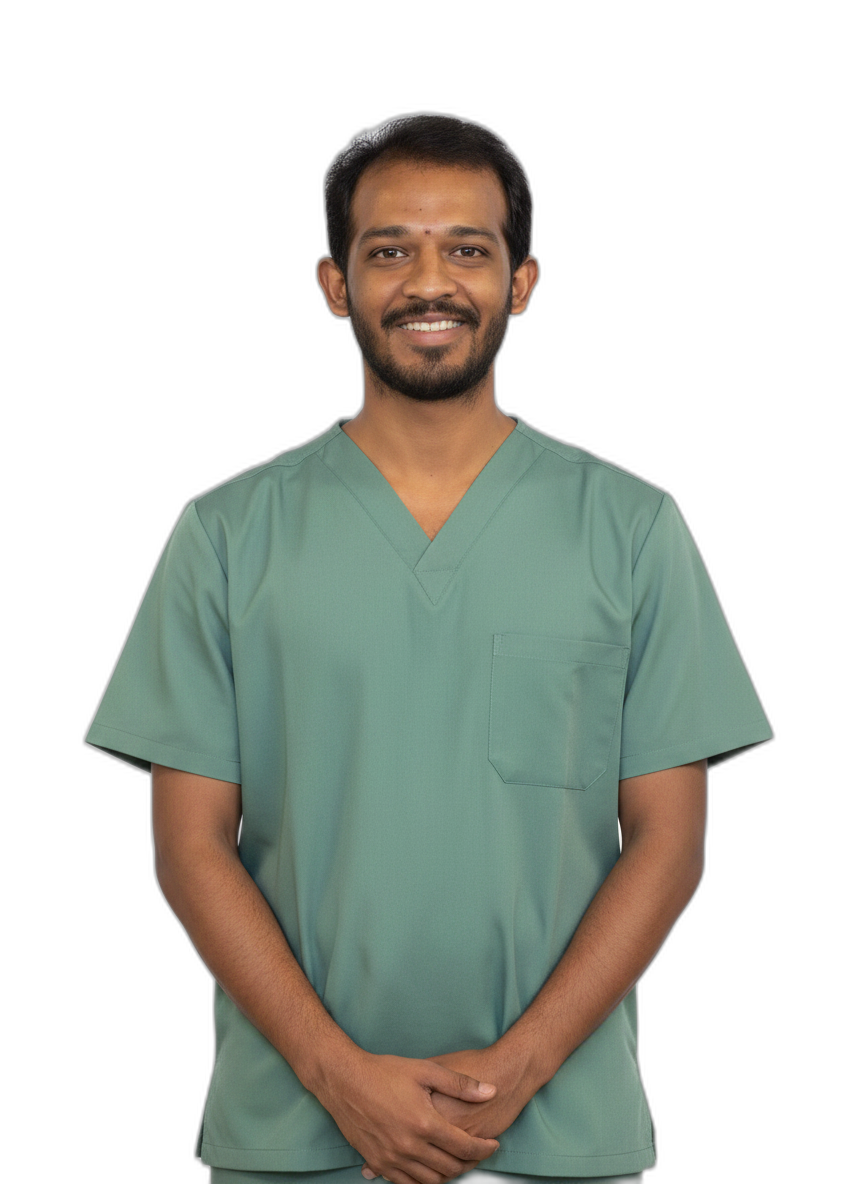
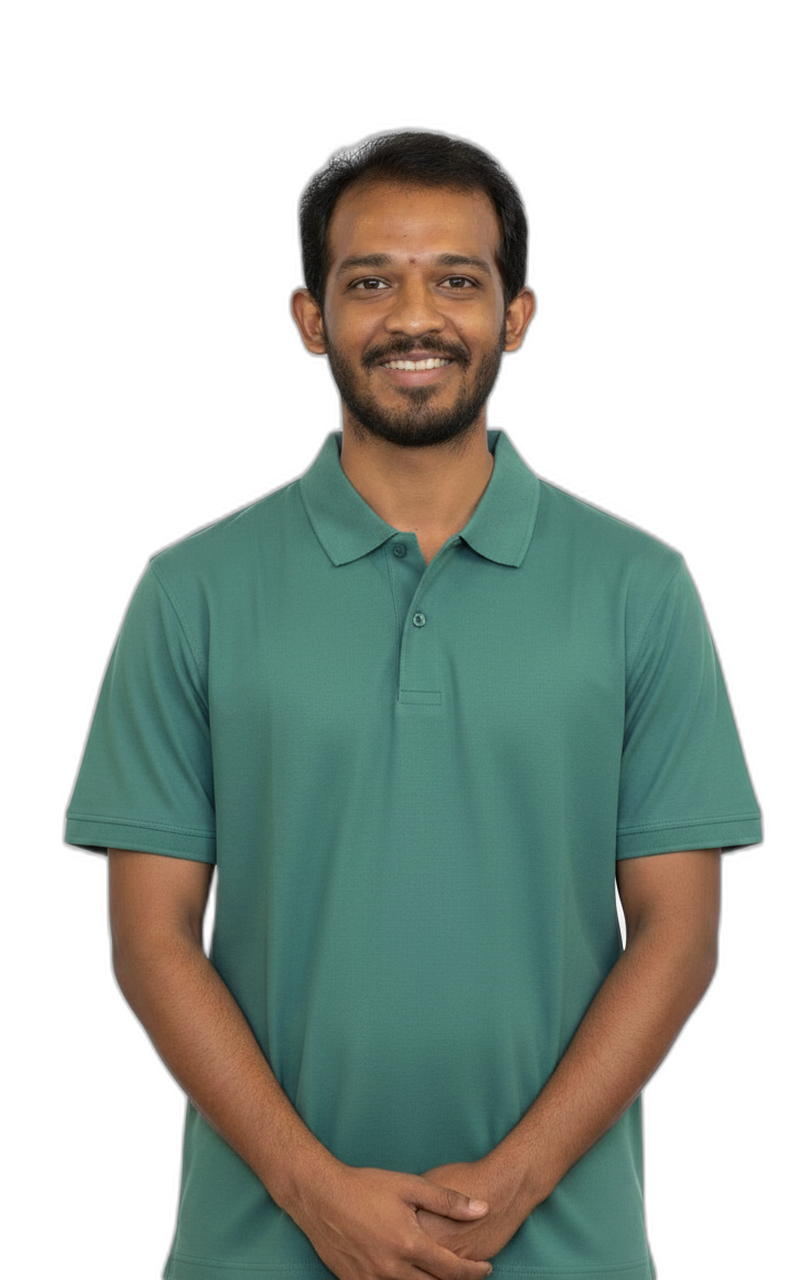
ka-mobile: About Mission/Vision + Why us sections, provider specialization chips
- About page: 'What we stand for' (Mission/Vision creed cards) and 'Why people choose us' principle cards
- Provider cards: consistent 'Specializes in' chip block, lane-coloured
- Provider data: Vighnesh G/R, Sneha, Ashfaqullah, Seema, Taseena specializations + credentials/experience

diff --git a/index.html b/index.html
@@ -348,7 +348,7 @@ main{padding-bottom:96px}
 /* providers: one horizontal scroll row, snap + hidden scrollbar, full-bleed so
    the next card peeks past the screen edge and invites the swipe */
 .team{display:flex;gap:14px;overflow-x:auto;scroll-snap-type:x mandatory;
-  align-items:stretch;margin:24px -22px 0;padding:4px 22px 12px;scroll-padding-left:22px;
+  align-items:flex-start;margin:24px -22px 0;padding:4px 22px 12px;scroll-padding-left:22px;
   -webkit-overflow-scrolling:touch;scrollbar-width:none}
 .team::-webkit-scrollbar{display:none}
 .team>.pcard{flex:0 0 62%;scroll-snap-align:start}
@@ -362,6 +362,7 @@ main{padding-bottom:96px}
 .pcard.g .pphoto{background:linear-gradient(157deg,#e7f5ef,#d2ebdf)}
 .pcard.b .pphoto{background:linear-gradient(157deg,#eaeffb,#d8e3fb)}
 .pcard.o .pphoto{background:linear-gradient(157deg,#fef0e6,#fbdfce)}
+.pcard.p .pphoto{background:linear-gradient(157deg,#f1eafb,#e2d5f6)}
 .pbody{padding:13px 14px 16px}
 .pname{font-family:var(--fd);font-weight:480;font-size:var(--fs-h4);line-height:1.12;letter-spacing:-.01em;color:var(--ink)}
 /* role label: white caption over the bottom of the photo, lane-coloured dot, no pill */
@@ -373,7 +374,17 @@ main{padding-bottom:96px}
 .pcard.g .ptag::before{background:#5fd0aa}
 .pcard.b .ptag::before{background:#86a6f2}
 .pcard.o .ptag::before{background:#f7a079}
+.pcard.p .ptag::before{background:#b79be8}
 .pmeta{margin-top:10px;font-size:var(--fs-cap);color:var(--muted);line-height:1.45}
+.pcard.n{--ln:#13265a}.pcard.g{--ln:#1f8c6a}.pcard.b{--ln:#213f99}.pcard.o{--ln:#cf5a34}.pcard.p{--ln:#7b54c4}
+/* provider card: "Specializes in" block — short line, or lane-tinted chips for a list of areas */
+.pspec{margin-top:13px;padding-top:13px;border-top:1px solid var(--line)}
+.pspec-lbl{display:inline-flex;align-items:center;gap:6px;font-size:9.5px;font-weight:700;letter-spacing:.14em;
+  text-transform:uppercase;color:var(--ln);margin-bottom:9px}
+.pspec-lbl::before{content:"";width:6px;height:6px;border-radius:50%;background:var(--ln);flex:none}
+.pspec-chips{display:flex;flex-wrap:wrap;gap:6px}
+.pchip{font-size:11px;font-weight:600;line-height:1.18;padding:5px 9px;border-radius:9px;
+  background:color-mix(in srgb,var(--ln) 9%,#fff);color:var(--ln);border:1px solid color-mix(in srgb,var(--ln) 22%,transparent)}
 /* about: head-of-type provider detail cards (name · type · education · experience · membership) */
 .prov-detail{padding:18px;position:relative;overflow:hidden;--ring:#9db0ee;--accent:#3f5da0;--tint:#eef1fb}
 .prov-detail.g{--ring:#5fd0aa;--accent:#1f8c6a;--tint:#e7f6f0}
@@ -1013,6 +1024,7 @@ main{padding-bottom:96px}
 .jw-banner{position:relative;overflow:hidden;color:#fff;padding:88px 22px 30px;isolation:isolate}
 .jw-banner .bgslide{position:absolute;inset:0;z-index:-2}
 .jw-banner:after{content:'';position:absolute;inset:0;z-index:-1;background:linear-gradient(180deg,transparent 40%,rgba(12,18,42,.35))}
+.jw-banner .eyebrow{font-size:var(--fs-lbl);letter-spacing:.22em;text-transform:uppercase;color:rgba(255,255,255,.78);margin-bottom:12px}
 .jw-banner h1{font-family:var(--fd);font-weight:430;font-size:var(--fs-h1);line-height:1.05;letter-spacing:-.012em;text-shadow:0 1px 24px rgba(0,0,0,.28)}
 .jw-banner h1 .it{font-style:italic;color:#f7a172}
 .jw-banner p{margin-top:11px;font-size:var(--fs-sm);line-height:1.5;color:rgba(255,255,255,.86);max-width:30ch}
@@ -1612,6 +1624,37 @@ main{padding-bottom:96px}
 @keyframes bmPulse{0%,100%{opacity:.10;transform:scale(.85)}50%{opacity:.24;transform:scale(1.3)}}
 .bmap-cap{position:absolute;left:16px;bottom:16px;display:inline-flex;align-items:center;gap:6px;padding:7px 13px;border-radius:999px;background:rgba(255,255,255,.92);-webkit-backdrop-filter:blur(6px);backdrop-filter:blur(6px);font-size:var(--fs-cap);color:var(--ink);box-shadow:0 6px 18px -10px rgba(19,38,90,.4)}
 .bmap-cap svg{width:13px;height:13px;color:var(--green)}
+/* About — "What we stand for": Mission / Vision creed cards */
+.creed{display:flex;flex-direction:column;gap:16px;margin-top:24px}
+.creed-card{position:relative;overflow:hidden;border-radius:var(--r-lg);padding:26px 24px 28px;
+  background:linear-gradient(155deg,color-mix(in srgb,var(--ln) 9%,#fff),color-mix(in srgb,var(--ln) 2.5%,#fff));
+  border:1px solid color-mix(in srgb,var(--ln) 20%,var(--line));
+  box-shadow:0 20px 44px -30px color-mix(in srgb,var(--ln) 70%,transparent);
+  animation:kjUp .6s var(--ease) both;animation-delay:calc(var(--i)*120ms)}
+.creed-card::before{content:'';position:absolute;left:0;top:24px;bottom:24px;width:3px;border-radius:0 3px 3px 0;background:var(--ln)}
+.creed-glyph{position:absolute;right:-26px;top:-30px;width:132px;height:132px;color:var(--ln);opacity:.08;pointer-events:none}
+.creed-lbl{position:relative;display:inline-flex;align-items:center;gap:9px;font-size:var(--fs-lbl);
+  letter-spacing:.2em;text-transform:uppercase;font-weight:600;color:var(--ln);margin-bottom:15px}
+.creed-mark{width:15px;height:15px;flex:none}
+.creed-tx{position:relative;font-family:var(--fd);font-weight:400;font-size:clamp(16.5px,4.2vw,18px);
+  line-height:1.5;letter-spacing:-.005em;color:var(--ink)}
+.creed-tx .it{font-style:italic;color:var(--ln)}
+.creed-card.g{--ln:#1f8c6a}.creed-card.b{--ln:#213f99}
+/* About — "Why people choose us": three principle cards */
+.why{display:flex;flex-direction:column;gap:14px;margin-top:24px}
+.why-card{position:relative;overflow:hidden;display:grid;grid-template-columns:46px 1fr;gap:16px;align-items:start;
+  padding:20px 20px 22px;border-radius:var(--r);background:#fff;border:1px solid var(--line);
+  box-shadow:0 14px 30px -24px rgba(20,32,80,.5);
+  animation:kjUp .55s var(--ease) both;animation-delay:calc(var(--i)*90ms)}
+.why-card::before{content:'';position:absolute;left:0;top:0;bottom:0;width:4px;background:var(--ln)}
+.why-card::after{content:attr(data-no);position:absolute;right:-14px;bottom:-30px;font-family:var(--fd);
+  font-weight:500;font-size:120px;line-height:1;color:var(--ln);opacity:.06;pointer-events:none}
+.why-no{font-family:var(--fd);font-weight:480;font-size:24px;line-height:1;color:var(--ln);
+  width:46px;height:46px;border-radius:14px;display:grid;place-items:center;
+  background:color-mix(in srgb,var(--ln) 12%,#fff)}
+.why-tx{position:relative;font-size:calc(var(--fs-body) + .5px);line-height:1.54;color:var(--ink2);padding-top:9px;font-weight:450}
+.why-tx b{color:var(--ink);font-weight:600}
+.why-card.g{--ln:#1f8c6a}.why-card.b{--ln:#213f99}.why-card.o{--ln:#cf5a34}
 </style>
 </head>
 <body>
@@ -1845,11 +1888,12 @@ var TESTIMONIALS=[
  team:['Physiotherapy','Strength','Nutrition','Emotional wellbeing','Doctor oversight']}
 ];
 var PROVIDERS=[
- {name:'Taseena Banu',role:'Medical oversight',lane:'n',photo:'taseena-real.png?v=1'},
- {name:'Vighnesh R',role:'Physiotherapist',edu:'BPT, MBA Healthcare Management',exp:'7+ years',assoc:'MIAP',lane:'g',photo:'vighnesh-cut.png?v=1'},
- {name:'Vighnesh G',role:'Senior physical trainer',lane:'b',photo:'trainer2-cut.png?v=2'},
- {name:'Sneha Reddy',role:'Nutritionist',lane:'o',photo:'provider4-cut.png?v=3'},
- {name:'Ashfaqullah',role:'Senior physiotherapist',lane:'g',photo:'ashfaqullah-dr.png?v=1'}
+ {name:'Taseena Banu',role:'Medical oversight',edu:'MBBS, MD (Medicine)',exp:'5 years',specList:['Internal Medicine','Geriatric Care','Chronic Disease Management','Preventive Health'],lane:'n',photo:'taseena-real.png?v=1'},
+ {name:'Vighnesh R',role:'Physiotherapist',edu:'BPT, MBA Healthcare Management',exp:'7+ years',assoc:'MIAP',specList:['Post-Operative Rehabilitation','Neurological Rehabilitation',"Parkinson's Rehabilitation",'Paediatric Rehabilitation','Geriatric Rehabilitation'],lane:'g',photo:'vighnesh-cut.png?v=4'},
+ {name:'Vighnesh G',role:'Senior fitness trainer',exp:'9 years',specList:['Personal Training','Strength & Conditioning','Sports Nutrition','Special Population Training','Senior Training'],lane:'b',photo:'trainer2-cut.png?v=2'},
+ {name:'Sneha Reddy',role:'Nutritionist',edu:'BSc (Nutrition)',exp:'5 years',specList:['Clinical & Therapeutic Nutrition','Diabetes & Metabolic Nutrition','Weight Management','Taste-based Meal Planning','Macro & Micro Balancing'],lane:'o',photo:'provider4-cut.png?v=3'},
+ {name:'Dr. K. Md. Ashfaqullah',role:'Senior physiotherapist / Rehab specialist',exp:'14 years',specList:['Orthopaedic Rehabilitation','Neurological Rehabilitation','Geriatric Fitness & Rehabilitation','Pre- & Post-Operative Rehabilitation'],lane:'g',photo:'ashfaqullah-dr.png?v=1'},
+ {name:'Seema',role:'Emotional wellbeing',edu:'MSc Psychology',exp:'8 years',specList:['Geriatric Mental Health','Anxiety & Depression Support','Cognitive Wellness','Caregiver Counselling'],lane:'p',photo:'seema-dr.png?v=2'}
 ];
 var ONBOARDING=[{t:'[PLACEHOLDER] Tell us what is going on',d:'[PLACEHOLDER] A short call or quiz to understand your situation, for you or a parent.'},{t:'[PLACEHOLDER] Home assessment',d:'[PLACEHOLDER] A provider visits and assesses in person.'},{t:'[PLACEHOLDER] You get a plan',d:'[PLACEHOLDER] A doctor-reviewed plan and a report for you and your family.'},{t:'[PLACEHOLDER] Ongoing sessions',d:'[PLACEHOLDER] Regular visits with progress you can see.'}];
 var JOURNEY=[
@@ -2053,7 +2097,10 @@ function pillars(){return '<div class="pillars">'+PILLARS.map(function(p){return
 var PS_ICONS=['<path d="M9.5 4h5v5h5v5h-5v5h-5v-5h-5V9h5z"></path>','<path d="M6.5 7v10M17.5 7v10M4 9.5v5M20 9.5v5M6.5 12h11"></path>','<path d="M5 19c-1-7 4-13 14-14 1 9-5 14-11 14"></path><path d="M6 18 13 11"></path>','<path d="M12 20c-4-2.4-7-5.4-7-9a3.6 3.6 0 0 1 7-1.4A3.6 3.6 0 0 1 19 11c0 3.6-3 6.6-7 9z"></path>','<path d="M6 3v4a4 4 0 0 0 8 0V3"></path><path d="M10 15a5 5 0 0 0 9 0v-3"></path><circle cx="19" cy="9" r="2"></circle>'];
 function pillarsStack(){return '<div class="pstack">'+PILLARS.map(function(p,i){return '<div class="pscard" data-go="/services/'+p.slug+'"><div class="ps-head"><span class="ps-ico c'+(i+1)+'"><svg width="24" height="24" viewBox="0 0 24 24" fill="none" stroke="currentColor" stroke-width="1.7" stroke-linecap="round" stroke-linejoin="round">'+PS_ICONS[i]+'</svg></span><div class="ps-body"><div class="ps-name">'+p.name+'</div><p class="ps-desc">'+p.blurb+'</p></div><button class="ps-chevbtn" data-ps="'+i+'" aria-label="Reopen '+p.name+'"><span class="ps-chev"></span></button></div><div class="ps-visual">'+(p.photo?'<img src="'+p.photo+'" alt="'+p.name+'" loading="lazy">':'<span>Visual</span>')+'</div></div>'}).join('')+'</div>'}
 // compact, horizontally-scrolling team carousel (the 5 heads of care); shared by Home and About
-function teamScroll(){return '<div class="team">'+PROVIDERS.map(function(p){var meta=[p.edu,p.exp].filter(Boolean).join(' &middot; ');return '<div class="pcard '+(p.lane||'n')+'"><div class="pphoto"><img src="'+p.photo+'" alt="'+p.role+'" loading="lazy"><span class="ptag">'+p.role+'</span></div><div class="pbody"><div class="pname">'+p.name+'</div>'+(meta?'<div class="pmeta">'+meta+'</div>':'')+'</div></div>'}).join('')+'</div>'}
+function teamScroll(){return '<div class="team">'+PROVIDERS.map(function(p){
+ var meta=[p.edu,p.exp].filter(Boolean).join(' &middot; ');
+ var spec=p.specList?'<div class="pspec"><span class="pspec-lbl">Specializes in</span><div class="pspec-chips">'+p.specList.map(function(s){return '<span class="pchip">'+s+'</span>'}).join('')+'</div></div>':'';
+ return '<div class="pcard '+(p.lane||'n')+'"><div class="pphoto"><img src="'+p.photo+'" alt="'+p.role+'" loading="lazy"><span class="ptag">'+p.role+'</span></div><div class="pbody"><div class="pname">'+p.name+'</div>'+(meta?'<div class="pmeta">'+meta+'</div>':'')+spec+'</div></div>'}).join('')+'</div>'}
 function metricsRow3(){
  var R=52,C=2*Math.PI*R;
  var rings=[{lane:'b',pct:95,num:'<span class="m-num" data-count="95">0</span>',u:'%',l:'Customer satisfaction'},
@@ -2124,10 +2171,14 @@ function heroTall(){
     '<a class="hlink" data-go="/how-we-work">See how we work</a>'+
   '</div>'+
  '</section>'}
+// small page label that mirrors the nav, so the hero title can stay evocative
+// while you always know which destination you landed on
+function pageLabel(){return {conditions:'Conditions','how-we-work':'How we work',services:'Services',stories:'Stories',about:'About','case-studies':'Case studies',pricing:'Pricing'}[path().split('/').filter(Boolean)[0]]||''}
 function heroBand(g,eyebrow,h1,sub,cta){
+ var eb=eyebrow||pageLabel();
  return '<section class="hero" style="padding-bottom:38px">'+
   '<div class="bgwrap"><div class="bgslide '+g+'"></div></div><div class="grain"></div><div class="scrim"></div>'+
-  (eyebrow?'<p class="eyebrow">'+eyebrow+'</p>':'')+'<h1>'+h1+'</h1>'+(sub?'<p class="sub">'+sub+'</p>':'')+(cta?'<div class="hcta">'+cta+'</div>':'')+
+  (eb?'<p class="eyebrow">'+eb+'</p>':'')+'<h1>'+h1+'</h1>'+(sub?'<p class="sub">'+sub+'</p>':'')+(cta?'<div class="hcta">'+cta+'</div>':'')+
  '</section>'}
 function condCard(c,lane){return '<div class="card">'+slot(c.name+' &middot; photo',lane)+'<span class="tag '+lane+'" style="margin-top:14px">'+c.name+'</span><div class="cardttl">'+c.symptom+'</div><p class="p muted" style="margin-top:4px;font-size:var(--fs-sm)">'+c.intro+'</p><div class="cardcta">'+arguments[2]+'</div></div>'}
 function condDirRow(d){
@@ -2458,7 +2509,7 @@ function jwCalAnim(){
  return '<div class="cal-panel"><div class="jw-calx" id="calAnim"><div class="cal-ttl">What we do</div><div class="jw-cal">'+head+weeks+'</div>'+leg+'</div></div>'}
 function vHow(){
  return '<div class="jw">'+
-   '<section class="jw-banner"><div class="bgslide g-blue"></div><h1>Journey <span class="it">with us</span></h1><p>We provide the whole plan, run it, and own every outcome, for you and your family.</p></section>'+
+   '<section class="jw-banner"><div class="bgslide g-blue"></div><p class="eyebrow">'+pageLabel()+'</p><h1>Journey <span class="it">with us</span></h1><p>We provide the whole plan, run it, and own every outcome, for you and your family.</p></section>'+
    '<section class="sec jw-point">'+
      '<div class="jw-step"><span class="n">01</span><h3>Assessment and analysis</h3></div>'+
      '<div class="jw-lead">'+
@@ -2539,7 +2590,7 @@ function vHow(){
 /* plans and pricing */
 function vPricing(){
  return '<div class="jw">'+
-   '<section class="jw-banner"><div class="bgslide g-blue"></div><h1>Plans and <span class="it">pricing</span></h1><p>One plan, scoped by a doctor to the care you actually need, so you pay only for that.</p></section>'+
+   '<section class="jw-banner"><div class="bgslide g-blue"></div><p class="eyebrow">'+pageLabel()+'</p><h1>Plans and <span class="it">pricing</span></h1><p>One plan, scoped by a doctor to the care you actually need, so you pay only for that.</p></section>'+
    '<section class="sec jw-pricing">'+
      '<div class="price-cards">'+
        '<div class="price-card">'+
@@ -2586,11 +2637,24 @@ var ABOUT_FAQS=[
  {q:'What does the free trial include?',a:'A full assessment at home, where we understand your health and what you need. It is free, with no commitment.'}
 ];
 function vAbout(){
+ var KA='<svg class="creed-mark" viewBox="0 0 24 24" fill="none" aria-hidden="true"><path d="M12 2v20M2 12h20M4.5 4.5l15 15M19.5 4.5l-15 15" stroke="currentColor" stroke-width="1.6" stroke-linecap="round"/></svg>';
+ var KAG='<svg class="creed-glyph" viewBox="0 0 24 24" fill="none" aria-hidden="true"><path d="M12 2v20M2 12h20M4.5 4.5l15 15M19.5 4.5l-15 15" stroke="currentColor" stroke-width="1.1" stroke-linecap="round"/></svg>';
  return heroBand('g-blue','','Everything your health needs,<span class="it">brought to your home.</span>','We believe real care is everything working together, the way you move, eat, and live, cared for as one. We own every outcome.')+
  '<section class="sec"><h2 class="h2">The Kinetic Age journey</h2>'+
    '<ol class="kjourney">'+ABOUT_JOURNEY.map(function(t,i){var lane=['g','b','o','p','n'][i];return '<li class="kj '+lane+(i===ABOUT_JOURNEY.length-1?' last':'')+'" style="--i:'+i+'"><span class="kj-node"><i>'+(i+1)+'</i></span><p class="kj-tx">'+t+'</p></li>'}).join('')+'</ol>'+
    '<div style="margin-top:26px">'+slot('Founder&rsquo;s message','video')+'</div></section>'+
+ '<section class="sec"><h2 class="h2">What we <span class="it">stand for.</span></h2>'+
+   '<div class="creed">'+
+     '<div class="creed-card g" style="--i:0">'+KAG+'<span class="creed-lbl">'+KA+'Our Mission</span><p class="creed-tx">To bring <span class="it">complete health care</span> into the comfort of your home, looking after every part of your wellbeing, and to stay close each day, so support is <span class="it">always within reach.</span></p></div>'+
+     '<div class="creed-card b" style="--i:1">'+KAG+'<span class="creed-lbl">'+KA+'Our Vision</span><p class="creed-tx">Our vision is to make a future where <span class="it">growing older at home means living well,</span> with care that keeps you stronger, steadier, and supported for the long run.</p></div>'+
+   '</div></section>'+
  '<section class="sec"><h2 class="h2">Our senior providers</h2><p class="p muted">Meet some of our senior providers, part of a trained team of 45 and growing. Every one is qualified and verified, because letting someone into your home takes trust.</p>'+teamScroll()+'</section>'+
+ '<section class="sec"><h2 class="h2">Why people <span class="it">choose us.</span></h2>'+
+   '<div class="why">'+
+     '<div class="why-card g" data-no="1" style="--i:0"><span class="why-no">1</span><p class="why-tx">We bring together physiotherapy, training, nutrition, mental wellness, and a doctor, <b>all working as one team for you.</b></p></div>'+
+     '<div class="why-card b" data-no="2" style="--i:1"><span class="why-no">2</span><p class="why-tx">We follow your progress and update your plan as you change, so your care <b>keeps pace with you.</b></p></div>'+
+     '<div class="why-card o" data-no="3" style="--i:2"><span class="why-no">3</span><p class="why-tx">Your own health consultant, ready for any worry or need, <b>any time of day.</b></p></div>'+
+   '</div></section>'+
  '<section class="sec"><h2 class="h2">The record so far.</h2><div style="margin-top:14px">'+statStrip()+'</div><div style="margin-top:16px">'+link('/conditions','See the conditions we treat')+'</div></section>'+
  '<section class="sec"><h2 class="h2">At home, across all of <span class="it">Bangalore.</span></h2><p class="p muted">We serve the whole of Bangalore, with care delivered to your door.</p>'+bangaloreMap()+'</section>'+
  '<section class="sec"><h2 class="h2">Questions families ask.</h2><div style="margin-top:18px">'+faqList(ABOUT_FAQS)+'</div></section>'+